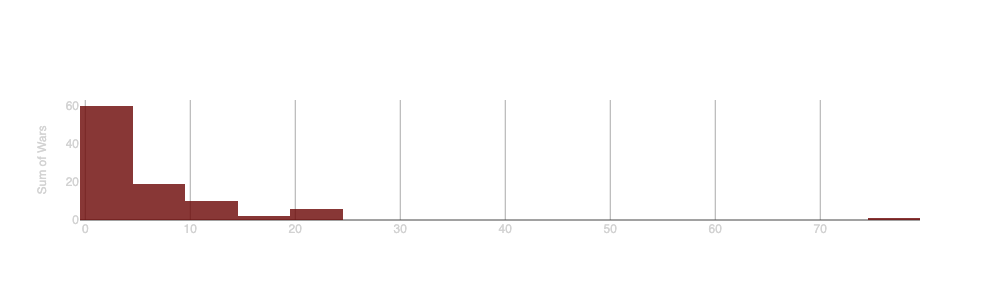
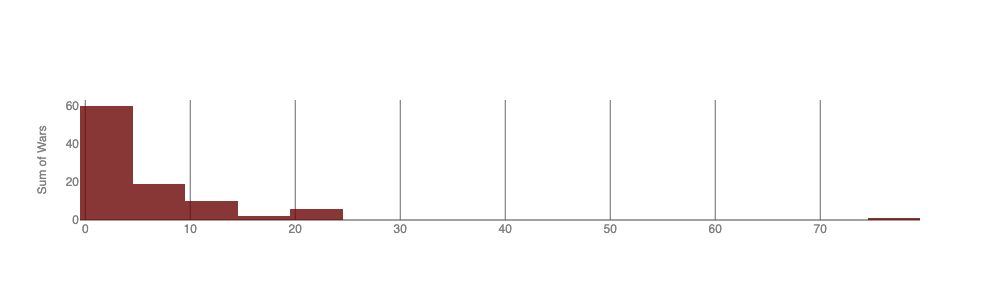
Reformat hist

diff --git a/static/js/plots_mult.js b/static/js/plots_mult.js
@@ -74,14 +74,14 @@ function makePlotly(x, y, label_title, label_x, label_y, selDiv) {
       titlefont: {
         family: 'Open Sans, sans-serif',
         size: 12,
-        color: 'lightgrey'
+        color: 'grey'
       },
       showticklabels: true,
       tickangle: 'auto',
       tickfont: {
         family: 'Open Sans, sans-serif',
         size: 12,
-        color: 'lightgrey'
+        color: 'grey'
       },
       gridcolor: 'rgba(65,65,65, 0.8)',
       exponentformat: 'e',
@@ -93,14 +93,14 @@ function makePlotly(x, y, label_title, label_x, label_y, selDiv) {
       titlefont: {
         family: 'Open Sans, sans-serif',
         size: 12,
-        color: 'lightgrey'
+        color: 'grey'
       },
       showticklabels: true,
       tickangle: 0,
       tickfont: {
         family: 'Open Sans, sans-serif',
         size: 12,
-        color: 'lightgrey'
+        color: 'grey'
       }
     },
     height: 300,

diff --git a/static/js/plots_hist.js b/static/js/plots_hist.js
@@ -96,16 +96,16 @@ function makePlotly(x, y) {
       titlefont: {
         family: 'Open Sans, sans-serif',
         size: 12,
-        color: 'lightgrey'
+        color: 'grey'
       },
       showticklabels: true,
       tickangle: 'auto',
       tickfont: {
         family: 'Open Sans, sans-serif',
         size: 12,
-        color: 'lightgrey'
+        color: 'grey'
       },
-      gridcolor: 'darkgrey',
+      gridcolor: 'rgba(65,65,65, 0.8)',
       exponentformat: 'e',
       showexponent: 'all'
     },
@@ -115,14 +115,14 @@ function makePlotly(x, y) {
       titlefont: {
         family: 'Open Sans, sans-serif',
         size: 12,
-        color: 'lightgrey'
+        color: 'grey'
       },
       showticklabels: true,
       tickangle: 0,
       tickfont: {
         family: 'Open Sans, sans-serif',
         size: 12,
-        color: 'lightgrey'
+        color: 'grey'
       }
     },
     height: 300,

diff --git a/index.html b/index.html
@@ -182,7 +182,7 @@
     <div class="row"> 
       <div class="col-lg-12 col-md-12 align-items-center">
         <div class="align-items-center" id="sumTimeline">
-          <img src="static/img/yearSumLine.png" class="img-fluid" alt="Sum of Simultaneous Wars Per Year" />
+          <!-- <img src="static/img/yearSumLine.png" class="img-fluid" alt="Sum of Simultaneous Wars Per Year" /> -->
         </div>
       </div>
     </div>
@@ -307,7 +307,7 @@
   <!-- D3 library -->
   <script src="https://d3js.org/d3.v5.min.js"></script>
   <script src="https://cdn.plot.ly/plotly-2.18.2.min.js"></script>
-  <!-- <script src="static/js/plots_mult.js"></script> -->
+  <script src="static/js/plots_mult.js"></script>
   <!-- <script src="static/js/plots_hist.js"></script> -->
 
   <!-- Highcharts library Word Cloud-->
